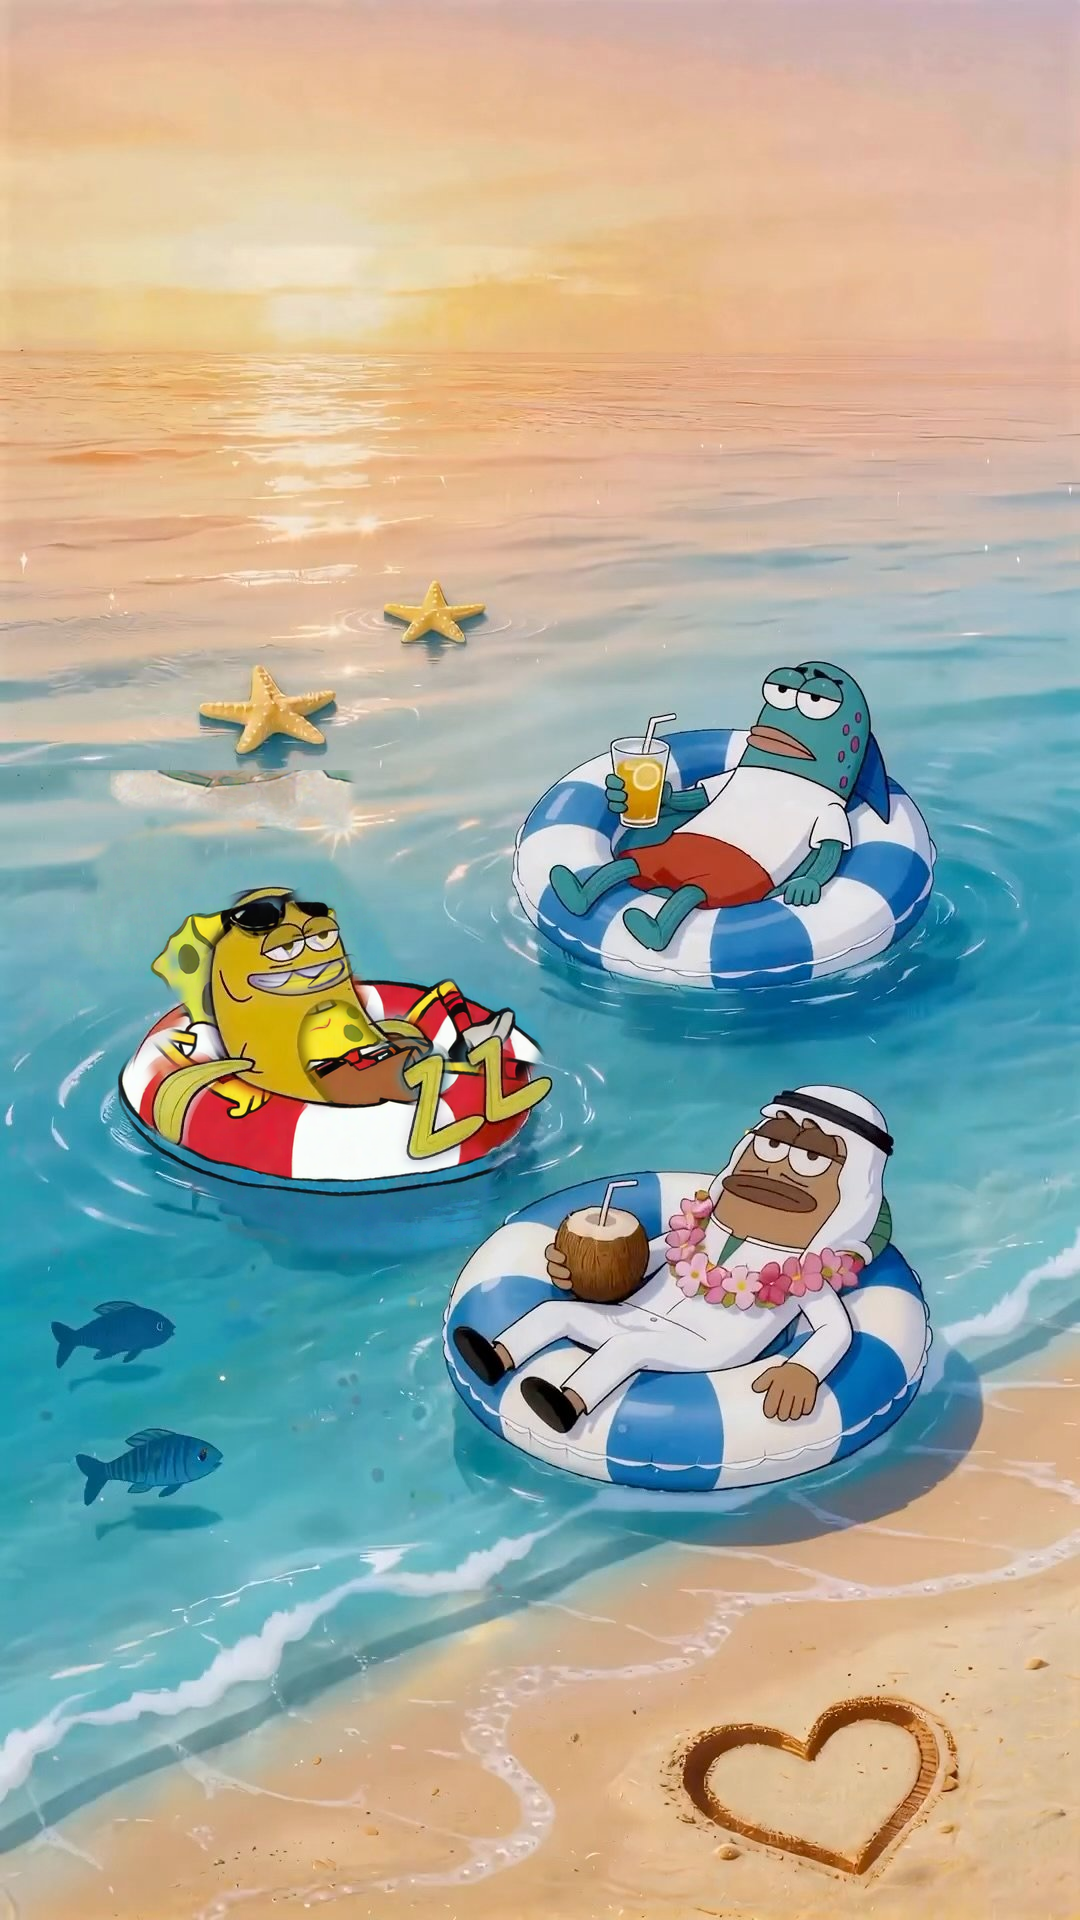
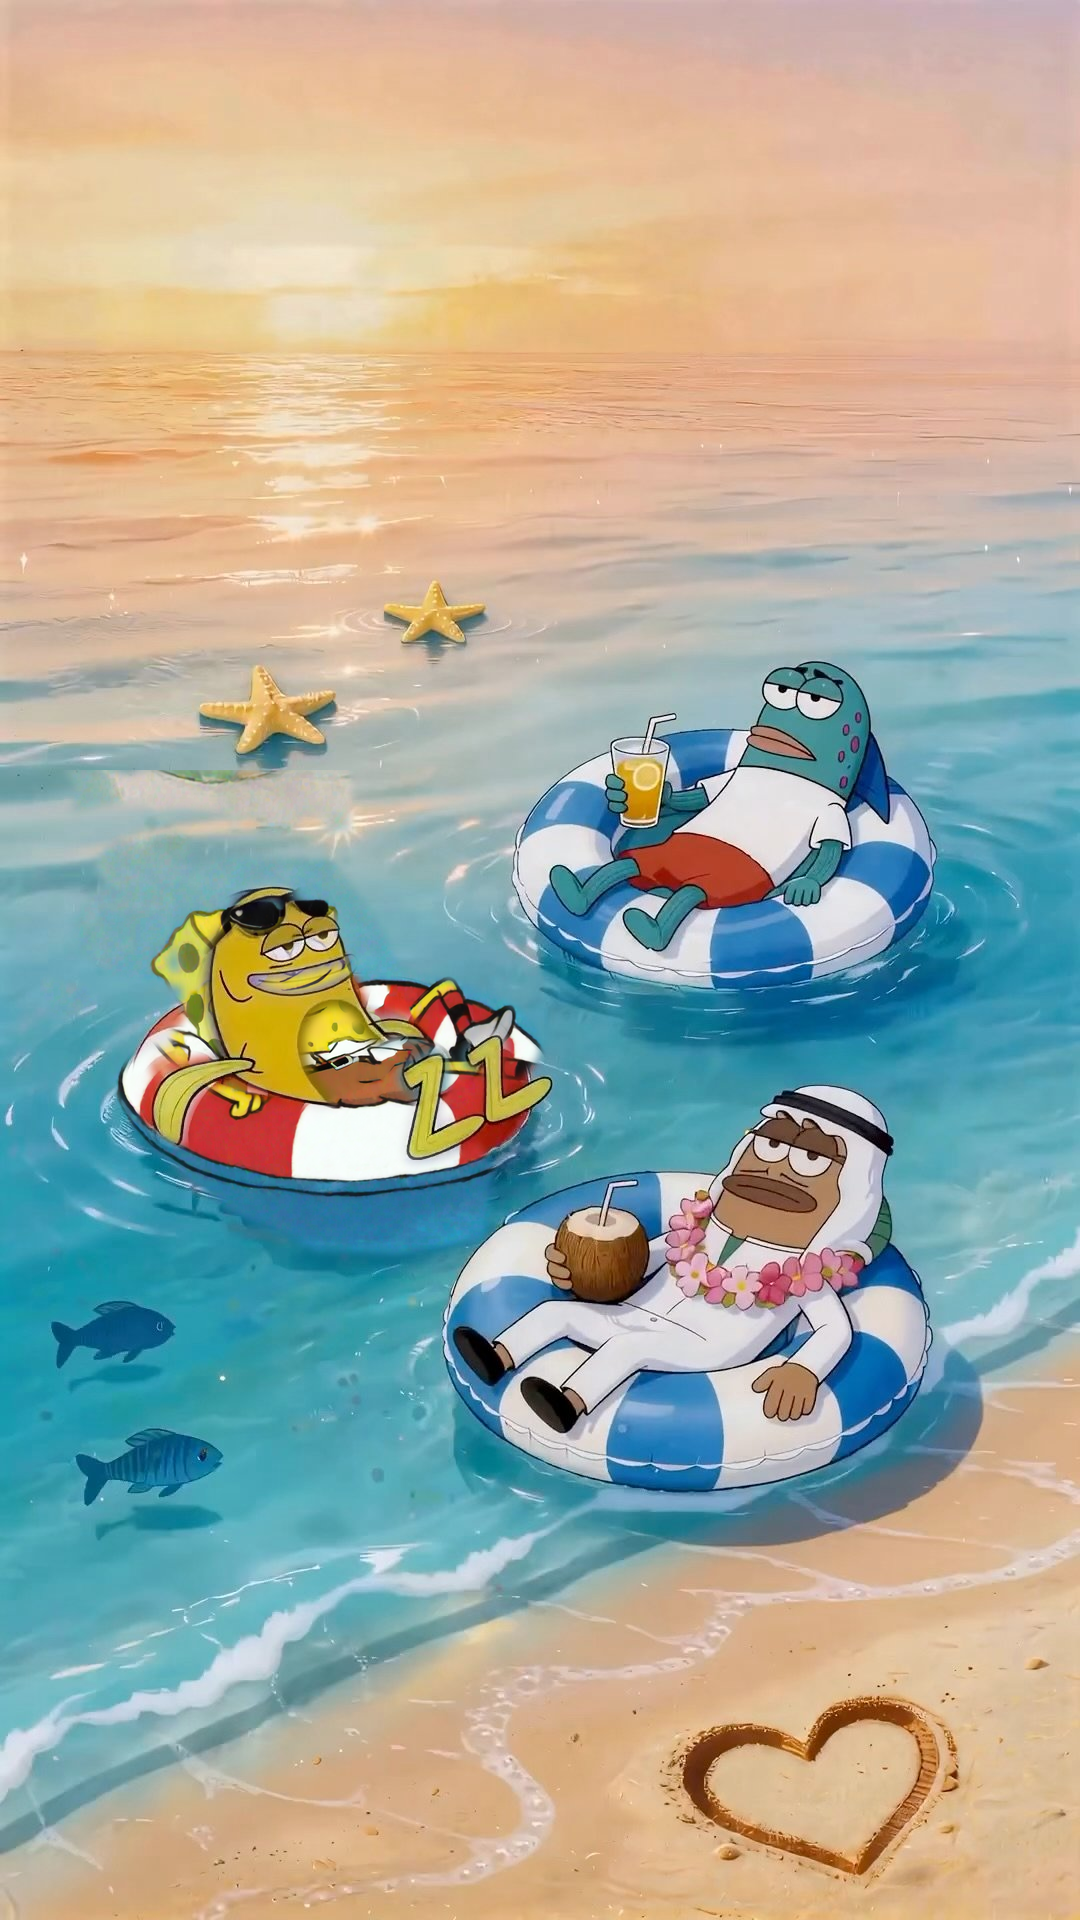
十六代 z1 返工（issue #33 整图复查）：SB 躯干完整替换为官方形态
- 躯干=黄方身+白衫+红领带+棕裤腰带（LoRA 掩膜 inpaint 链 z2-9422→ts2-9442→ts3-9451→ts4-9461→px-9481→ts8），ghost 脸/蓝色三角/孔点残清；贴回掩膜覆盖旧鱼全足迹，边缘无鱼形残块
- 分区 2.4x 过闸（z5）后重合成整图、重出画（seed 20261108 不变）
- z2/z3（派大星/珊迪）保留未动；样张像素保留策略不变
- 更新主图/before-after/audit16 z1/整图比对/gap 清单/recipe 十六代节

diff --git a/delivery/batch/gap-analysis-round16.md b/delivery/batch/gap-analysis-round16.md
@@ -22,6 +22,15 @@
   g1/g2/g3 定点 inpaint 清除（z3-sandy-sbs.png）。
 - 花环：按「宁可无，不可错位」直接移除（模型/程序化补画均无法稳定贴到颈部，历代教训）。
 
+## z1 返工轮（整图复查意见：SB 嵌合——鱼躯干只换了脸）
+- 根因：fish1 底 crop（d88i-66 线）躯干为素黄圆胖身+无白衫红领带，形似鱼身；贴回掩膜本身覆盖旧鱼
+  全足迹，问题在 crop 内容而非掩膜。
+- 修复链：z2-9422（d0.55 形体返工，保构图）→ ts2-9442（躯干 LoRA 掩膜 inpaint，得白衫+红领带+棕裤
+  腰带）→ ts3-9451（右缘蓝色三角清除）→ ts4-9461（胸口 ghost 小脸清除）→ px-9481（"眼点"孔点清除）
+  → ts8 终版（程序化柔黄抹平残余孔点，无硬边）。分区 2.4x 过闸后重合成、重出画。
+- 教训入档：LoRA 必须在线（无 LoRA 的 inp16 通道画不出 SB 服装，实测两败）；躯干大区域 d1.0 inpaint
+  易出 ghost 脸，宜小区域多点清除。
+
 ## 已知偏离（如实记录）
 1. 珊迪未持椰子、无花环（样张有）；形体与逻辑优先，接受。
 2. 珊迪头盔右上/派大星杯左有浅淡水色带（模型裁片背景偏浅被轮廓带拾入），远看呈浪花高光感。
@@ -32,7 +41,7 @@
 ## 参数与 seed 表
 | 分区 | 终版 crop（ComfyUI output 路径名） | 贴回参数 |
 |---|---|---|
-| fish1 SB | `g16hole/h7sb-fish1-9403`（d88i-66→h7sb 内补画旧鱼足迹） | OPEN∪poly18∪轮廓 dil14，ZZ 样张字母 chroma 保留（zz_keep dil5） |
+| fish1 SB | `g16hole/z2-9422→ts2-9442→ts3-9451→ts4-9461→px-9481→ts8`（z1 返工轮终版，白衫红领带棕裤齐全） | OPEN∪poly18∪轮廓 dil14，ZZ 样张字母 chroma 保留（zz_keep dil5） |
 | fish2 派大星 | `g16hole/g16in-st2-…-9015`（7001→h6-9006→ff-9011→fs/fs2→st-9014→st2-9015） | OPEN(720,852,148,84)∪poly18∪EXTRA鳍条∪轮廓 dil14 |
 | fish3 珊迪 | `g16hole/g16in-g3-…-9703`（w3-9101→f1-9501→g1-9701→g2-9702→g3-9703） | 同左但 hole=False（透明头盔=样张像素），EXTRA 头巾条 |
 | 出画 | seed 20261108（seam=40 双侧平滑；20261109 底带平灰弃用） | 上下各 280px pad，pad-only denoise 1.0 |

diff --git a/delivery/recipe.md b/delivery/recipe.md
@@ -474,7 +474,7 @@ python3 compose-round12.py --bg <bg.png> --scene <scene-id>|all --outdir output/
 ### seed 表（终版）
 | 分区 | 生成链 | 说明 |
 |---|---|---|
-| fish1 SB | `d88i-66` → `h7sb-9403` | 内孔海水 inpaint；ZZ 样张保留；橙花伪影清除 |
+| fish1 SB | `d88i-66` → `h7sb-9403` → **z1 返工轮** `z2-9422→ts2-9442→ts3-9451→ts4-9461→px-9481→ts8` | 内孔海水 inpaint；ZZ 样张保留；返工轮补全官方躯干（白衫+红领带+棕裤；教训：服装必须带 LoRA 掩膜 inpaint，大域 d1.0 易出 ghost 脸，残余孔点程序化柔黄抹平） |
 | fish2 派大星 | `7001`(w1 精修) → `h6-9006` → `ff-9011`(鳍条) → `fs/fs2`(残清) → `st-9014`(吸管) → `st2-9015` | 仰躺搭圈拿橙汁+吸管；死蓝底→波纹海水 |
 | fish3 珊迪 | `d88g-9`→`w1n-8001`→`w3-9101` → `f1-9501`(去花) → `g1/g2/g3-970x`(头巾/黑带残清) | 细白圈透明头盔标准脸；花环移除（宁可无，不可错位） |
 | 出画 | seed 20261108；接缝双侧 smooth_seam(half=40,radius=8) | 20261109 底带平灰，弃用 |
